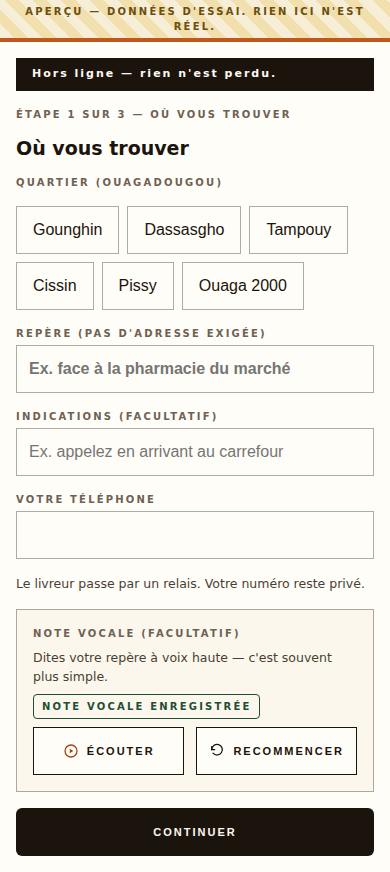
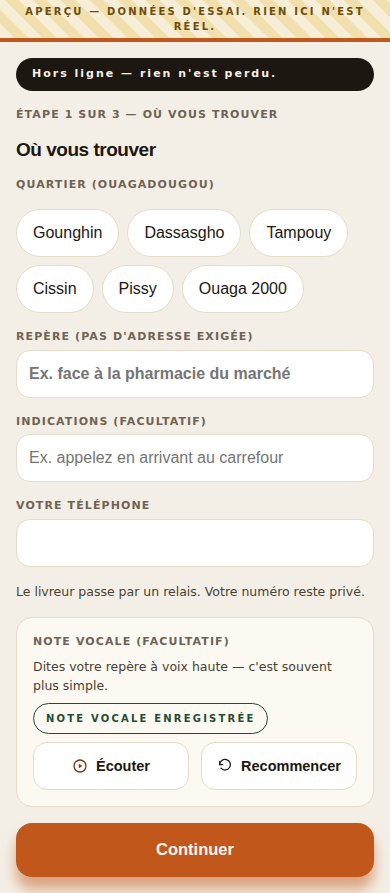
feat(buyer-pwa): extend the FP token-bridge to the mid-journey screens (re-skin part 2)
localisation, livraison, suivi, confirmation, and protections join the vitrine
language: the journey container now carries the .fp-screen scope unconditionally
(one language, product to protections), and fp-skin.ts gains the mid-journey
treatments — K field bytes with theme-accent focus, vt-chip pills, quote rows as
vt-tile cards with the K selection recipe, the timeline re-tinted through the
bridge, the drop-code frame on the part-1 rounded-ticks precedent, and the
protections sheet on the K vSheet bytes. The problem path's danger border is
restated inside the skin (SP-I10) on the K error byte now carried by the bridge.

CSS-only over unchanged markup; every FCFA byte on the way asserted unchanged
(1 000 / 1 500 / 11 500 / 12 500 / 0); zero U+202F in the sheet; theme drive
re-proven live on a mid-journey screen (var-flip repaints the MAINTENANT chip).

Claude-Session: https://claude.ai/code/session_01C5irtpxYf438XUjktu3Epm

diff --git a/apps/buyer-pwa/src/vitrine/fp-skin.ts b/apps/buyer-pwa/src/vitrine/fp-skin.ts
@@ -1,7 +1,8 @@
 /**
- * RE-SKIN (FP) — the vitrine's design language over the journey's money
- * screens (produit · paiement · the order states · the C1 skeleton surface),
- * WITHOUT touching their layout, markup, or behaviour.
+ * RE-SKIN (FP) — the vitrine's design language over the buyer journey
+ * (produit · localisation · livraison · paiement · confirmation · suivi ·
+ * protections, plus the order states and the C1 skeleton surface), WITHOUT
+ * touching layout, markup, or behaviour.
  *
  * Every byte below is lifted from a treatment the vitrine ALREADY ships —
  * cited rule-by-rule against its source: `vitrine/styles.ts` (.vt-*),
@@ -40,6 +41,7 @@ export const FP_SKIN_STYLES = `
     --c-primarySoft: color-mix(in srgb, var(--vt-on) 75%, transparent); /* .vt-cover-caps: θ.on à 75 % */
     --c-onPrimary: var(--vt-on);
     --c-onInk: #F6F0E4;            /* .vt-band color */
+    --c-danger: #C4574B;           /* K fieldInputError byte (the vitrine error red) */
   }
 
   /* Display type — .vt-namerow / .vt-state h3 bytes (Bricolage 800, -0.48px). */
@@ -162,6 +164,98 @@ export const FP_SKIN_STYLES = `
   /* Offline stays the ink band — .vt-band radius joins it (same ink, same text
      ink #F6F0E4 via the bridge). */
   .fp-screen .offline-banner { border-radius: 18px; }
+
+  /* ------------------------------------------------------------------------
+     MID-JOURNEY (part 2) — localisation · livraison · suivi · confirmation ·
+     protections join the same language. Colours largely arrive via the bridge
+     above; the rules below add only the treatments the bridge cannot express,
+     each cited to its vitrine/K source byte. */
+
+  /* Caps labels (field-label · step-line) — the K fieldLabel byte, identical
+     to .vt-group b (11 · 700 · ls 1.1 · muted via bridge). */
+  .fp-screen .field-label, .fp-screen .step-line {
+    font-size: 11px; font-weight: 700; letter-spacing: 1.1px;
+  }
+
+  /* Inputs — K fieldInput bytes (r 14 · 1.5 #E5DCC9 · white); focus rides the
+     habillage (K fieldInputFocus is θ.accent — θ-parametric here). */
+  .fp-screen .field-input {
+    border-radius: 14px; border: 1.5px solid #E5DCC9; background: #FFFFFF;
+  }
+  .fp-screen .field-input:focus { outline: none; border-color: var(--vt-accent); }
+
+  /* Zone chips — rest is the .vt-chip-line pill (white · 1 #E5DCC9); selected
+     is the K themeCardSelected recipe (2px θ.accent border) over the
+     .vt-chip-full ink (θ.soft on θ.deep). Selection stays structural. */
+  .fp-screen .chip {
+    border-radius: 99px; border: 1px solid #E5DCC9; background: #FFFFFF;
+  }
+  .fp-screen .chip-on {
+    border: 2px solid var(--vt-accent); background: var(--vt-soft); color: var(--vt-deep);
+    transition: background .3s, color .3s, border-color .3s;
+  }
+
+  /* Séra's quote rows — the .vt-tile card (white · #EDE4D3 · soft lift), r 14
+     (the K fieldInput/row radius); overflow clips the structural accent edge
+     inside the rounding. Selected = the K themeCardSelected recipe: 2px
+     θ.accent border + shadow 0 12 15 rgba(θ.accent, .35); the Grand Teint
+     accent edge + corner mark re-tint through the bridge and stay. */
+  .fp-screen .quote-row {
+    border-radius: 14px; border: 1px solid #EDE4D3; background: #FFFFFF;
+    box-shadow: 0 1px 2px rgba(28, 22, 15, 0.04);
+    overflow: hidden;
+  }
+  .fp-screen .quote-row-on {
+    border: 2px solid var(--vt-accent);
+    box-shadow: 0 12px 15px rgba(var(--vt-sh), .35);
+    transition: border-color .3s;
+  }
+
+  /* Tracking — timeline colours re-tint via the bridge (done = ink, now =
+     θ.accent ring, later = hairline); the MAINTENANT chip takes the vitrine
+     pill (r 99, .vt-chip). */
+  .fp-screen .now-chip { border-radius: 99px; transition: background .3s; }
+  .fp-screen .status-chip { border-radius: 99px; padding: 7px 12px; }
+
+  /* The door block — the .vt-tile card bytes (white, r 18, hairline, lift). */
+  .fp-screen .door-block {
+    border-radius: 18px; border: 1px solid #EDE4D3; background: #FFFFFF;
+    box-shadow: 0 1px 2px rgba(28, 22, 15, 0.04);
+  }
+
+  /* The drop-code frame — NO vitrine treatment exists (gap reported): it keeps
+     the part-1 photo-frame precedent — rounded (r 20) with the documentary
+     ticks kept, ticks re-tinted to θ.accent through the bridge. */
+  .fp-screen .code-box { border-radius: 20px; }
+
+  /* The landmark voice block — the .ent3-encart radius (r 16); its surface and
+     hairline arrive via the bridge (#FCF9F2 · #E5DCC9). */
+  .fp-screen .voice-note { border-radius: 16px; }
+
+  /* Secondary actions — the .vt-ghostbtn bytes (the same language the equal
+     actions already ride). The problem path KEEPS its danger border/ink
+     (SP-I10 — this rule outranks .problem-path, so restate it, on the K error
+     byte the bridge carries). */
+  .fp-screen .secondary-action {
+    border-radius: 14px; border: 1px solid #E5DCC9; background: #FFFFFF; color: #1C1710;
+    font-family: 'Bricolage Grotesque', sans-serif;
+    font-size: 14.5px; font-weight: 700;
+    letter-spacing: normal; text-transform: none;
+  }
+  .fp-screen .secondary-action:active { background: #FBF6EB; } /* .ent4:active */
+  .fp-screen .secondary-action.problem-path {
+    border-color: var(--c-danger); color: var(--c-danger);
+  }
+
+  /* « Vos protections » — the K vSheet bytes verbatim: card #FBF7EF, top
+     radius 24, the 44×5 r99 #DDD2BC handle. The rows' quote-rule left border
+     re-tints to vitrine ink through the bridge. */
+  .fp-screen .protections-sheet {
+    background: #FBF7EF; border-top: 0; border-radius: 24px 24px 0 0;
+  }
+  .fp-screen .sheet-handle {
+    width: 44px; height: 5px; border-radius: 99px; background: #DDD2BC;
+  }
 
   /* C1 skeleton (§2.1) — the .vt-shim treatment verbatim (the woven shimmer),
      same exact boxes (CLS 0 by construction, unchanged markup). */

diff --git a/apps/buyer-pwa/e2e/fp-skin.spec.ts b/apps/buyer-pwa/e2e/fp-skin.spec.ts
@@ -80,17 +80,76 @@ test('the two-option checkout re-skinned — vitrine cards, amounts to the franc
   expect(weights[0]).toBe(weights[1]);
 });
 
-test('paiement inside the journey rides the skin; localisation (unskinned) keeps Grand Teint', async ({ page }) => {
-  // the journey checkout is a skinned screen under her theme…
+test('paiement inside the journey rides the skin under her theme', async ({ page }) => {
   await page.goto('/?demo-journey=paiement');
   await expect(page.locator('main.fp-screen')).toBeVisible();
   await expect(page.locator('[data-option="full-prepay"]')).toHaveCSS('border-radius', '18px');
+});
 
-  // …and the scope holds: a screen this order does NOT cover stays Grand Teint
-  // (no .fp-screen), so the skin can never leak beyond its slice.
+/* PART 2 — the mid-journey screens join the language (gap 5 closed): every
+ * screen of the walk is `.fp-screen`-scoped under HER habillage, and every
+ * FCFA byte on the way is asserted unchanged. */
+
+test('localisation re-skinned — K field language, no FCFA on this screen', async ({ page }) => {
   await page.goto('/?demo-journey=localisation');
-  await expect(page.locator('[data-screen="localisation"]')).toBeVisible();
-  await expect(page.locator('main.fp-screen')).toHaveCount(0);
+  await expect(page.locator('main.fp-screen [data-screen="localisation"]')).toBeVisible();
+  // K fieldInput bytes on the repère input; focus rides the habillage.
+  const repere = page.locator('.field-repere');
+  await expect(repere).toHaveCSS('border-radius', '14px');
+  await repere.focus();
+  await expect(repere).toHaveCSS('border-color', 'rgb(194, 87, 27)');
+  // landmark-first law untouched: still no street-address field, no FCFA here.
+  await expect(page.locator('input[name="adresse"]')).toHaveCount(0);
+});
+
+test('livraison re-skinned — Séra\'s fees byte-exact, the selected row carries the K selection recipe', async ({ page }) => {
+  await page.goto('/?demo-journey=livraison');
+  await expect(page.locator('main.fp-screen [data-screen="livraison"]')).toBeVisible();
+  // the quote is display-only and byte-exact: both fees + the fee in the CTA.
+  const rows = page.locator('.quote-row .fcfa-figure-inline');
+  await expect(rows.nth(0)).toHaveText('1 000 FCFA');
+  await expect(rows.nth(1)).toHaveText('1 500 FCFA');
+  await expect(page.locator('.primary-action')).toContainText('1 000 FCFA');
+  // selected row = K themeCardSelected recipe (2px θ.accent border).
+  const selected = page.locator('.quote-row-on');
+  await expect(selected).toHaveCSS('border-color', 'rgb(194, 87, 27)');
+  await expect(selected).toHaveCSS('border-top-width', '2px');
+});
+
+test('suivi re-skinned — due-at-door byte-exact, the theme drives the timeline chip live', async ({ page }) => {
+  await page.goto('/?demo-journey=suivi&etat=porte-b');
+  const main = page.locator('main.fp-screen');
+  await expect(main.locator('[data-screen="suivi"]')).toBeVisible();
+  // Option B: the product leg due at the door, unchanged to the franc.
+  await expect(page.locator('.door-block .fcfa-figure-inline')).toHaveText('11 500 FCFA');
+  await expect(page.locator('.door-block')).toHaveCSS('border-radius', '18px');
+  // the MAINTENANT chip rides θ.accent — and repaints on a theme flip (the
+  // drive proven on a mid-journey screen, same law as the product band).
+  const chip = page.locator('.now-chip');
+  await expect(chip).toHaveCSS('background-color', 'rgb(194, 87, 27)');
+  await main.evaluate((el, accent) => el.style.setProperty('--vt-accent', accent), FORET_ACCENT);
+  await expect(chip).toHaveCSS('background-color', FORET_ACCENT);
+  // SP-I10 survives the skin: « Un souci ? » keeps its danger border (the K
+  // error byte), never absorbed into the ghost-button language.
+  await expect(page.locator('.problem-path')).toHaveCSS('border-color', 'rgb(196, 87, 75)');
+});
+
+test('confirmation re-skinned — both money lines byte-exact, honest pending pill', async ({ page }) => {
+  await page.goto('/?demo-journey=confirmation');
+  await expect(page.locator('main.fp-screen [data-screen="confirmation"]')).toBeVisible();
+  const lines = page.locator('.fcfa-line .fcfa-figure-inline');
+  await expect(lines.nth(0)).toHaveText('12 500 FCFA');
+  await expect(lines.nth(1)).toHaveText('0 FCFA');
+  // the honest pending state rides the vitrine pill (never a green lie).
+  await expect(page.locator('.status-chip.status-pending')).toHaveCSS('border-radius', '99px');
+});
+
+test('protections re-skinned — the K sheet bytes carry the bill of rights', async ({ page }) => {
+  await page.goto('/?demo-journey=protections');
+  const sheet = page.locator('main.fp-screen [data-screen="protections"]');
+  await expect(sheet).toBeVisible();
+  await expect(sheet).toHaveCSS('background-color', 'rgb(251, 247, 239)');
+  await expect(sheet).toHaveCSS('border-top-left-radius', '24px');
 });
 
 test('the C1 skeleton surface re-skinned — the vitrine shim, the exact boxes', async ({ page }) => {

diff --git a/apps/buyer-pwa/src/journey.ts b/apps/buyer-pwa/src/journey.ts
@@ -215,11 +215,13 @@ export function createJourney(container: HTMLElement, init: JourneyInit): void {
   }
   if (init.screen === 'protections') state.stack.push('protections');
 
-  // RE-SKIN (FP) — the reseller's habillage (§1.2) drives the skinned screens:
+  // RE-SKIN (FP) — the reseller's habillage (§1.2) drives the journey chrome:
   // applyTheme sets the --vt-* properties on the journey container ONCE (they
   // survive innerHTML re-renders); the fp-skin rules consume them, so HER theme
-  // re-tints the product/checkout chrome exactly as it re-tints her vitrine.
+  // re-tints every screen exactly as it re-tints her vitrine. Part 2: the whole
+  // journey rides the skin — one language from product to protections.
   applyTheme(container, state.vitrine?.themeKey ?? DEFAULT_THEME);
+  container.classList.add('fp-screen');
 
   let adapter: RecorderAdapter | null = null;
   let playbackUrl: string | null = null;
@@ -305,9 +307,6 @@ export function createJourney(container: HTMLElement, init: JourneyInit): void {
   }
 
   function render(): void {
-    // RE-SKIN (FP) scope: produit + paiement carry the vitrine language today;
-    // the other screens keep Grand Teint until their own re-skin slices.
-    container.classList.toggle('fp-screen', current() === 'produit' || current() === 'paiement');
     const offlineBanner = state.online
       ? ''
       : `<p class="offline-banner" data-role="offline">${t('hors_ligne.bandeau')}</p>`;

diff --git a/apps/buyer-pwa/test/fp-skin.test.ts b/apps/buyer-pwa/test/fp-skin.test.ts
@@ -59,10 +59,13 @@ describe('the journey resolves and applies HER habillage', () => {
     expect(entry!.accent).toBe(VITRINE_THEMES[entry!.themeKey].accent);
   });
 
-  it('the wiring stays bound: applyTheme on the container, the scoped class toggle, the sheet injection', () => {
+  it('the wiring stays bound: applyTheme on the container, the whole-journey scope, the sheet injection', () => {
     const journey = read('journey.ts');
     expect(journey).toContain('applyTheme(container,');
-    expect(journey).toContain("classList.toggle('fp-screen'");
+    // Part 2: the WHOLE journey rides the skin — one language, product to
+    // protections (the per-screen toggle is retired).
+    expect(journey).toContain("container.classList.add('fp-screen')");
+    expect(journey).not.toContain("classList.toggle('fp-screen'");
     const main = read('main.ts');
     expect(main).toContain('FP_SKIN_STYLES');
     expect(main).toContain("setAttribute('data-fp-skin'");

diff --git a/JOURNAL.md b/JOURNAL.md
@@ -9,6 +9,14 @@ Format per entry:
 
 ---
 
+## 2026-07-21 · RE-SKIN (FP) part 2 — the mid-journey screens join the language (gap 5 closed) · in-review (built + gates green on-branch; NO merge)
+- **Order:** extend the 6d2d2ae token-bridge to localisation · livraison · suivi · confirmation · protections. CSS-only over unchanged markup; money render-only; zero U+202F in the sheet.
+- **Grounded first (vocab + FCFA per screen):** localisation `.location-form` (step-line · field-label/input/repere · chips/chip-on · quiet-line · voice-note + status-chips · secondary-action · action-equal · primary-action — NO FCFA) · livraison `.delivery-quote` (quote-table/row/row-on/label · fcfa-figure-inline **1 000 / 1 500** · fee restated in the CTA label) · suivi `.tracking` (timeline done/now/later · now-chip · door-block · code-box(-locked)/code-frame/figure/ticks · fcfa-line **11 500 dû à la porte** · action-equal pair · problem-path · link-quiet) · confirmation in journey.ts (fcfa-line ×2 — **12 500 / 0** direct, fee/11 500 mode B · status-pending · ent4) · protections `.protections-sheet` (sheet-handle · protections-list/row — NO FCFA).
+- **Built:** fp-skin.ts extended (all `.fp-screen`-scoped; new anchors cited): K fieldLabel byte on caps labels; K fieldInput bytes on inputs with θ.accent focus; zone chips = vt-chip-line pill rest / **K themeCardSelected** (2px θ.accent) + chip-full ink selected; quote rows = vt-tile card r 14 + overflow-clipped structural accent edge, selected = K themeCardSelected recipe (2px θ.accent + shadow 0 12 15 rgba(θ.sh,.35)); timeline re-tints via the bridge, MAINTENANT chip pill; door-block = vt-tile card; voice-note r 16 (ent3-encart); code-box r 20 (photo-frame precedent — gap below); status-chip pill; secondary-action = vt-ghostbtn **with `.problem-path` danger restated** (my higher-specificity ghost rule would otherwise erase SP-I10's danger border — caught and pinned in e2e); protections sheet = **K vSheet bytes** (#FBF7EF · top-r 24 · 44×5 #DDD2BC handle). Bridge gains `--c-danger: #C4574B` (K fieldInputError byte). Wiring: the journey container now carries `fp-screen` unconditionally (one language, product → protections); per-screen toggle retired; unit guard updated.
+- **Evidence (this session):** U+202F scan on fp-skin.ts = 0 · tsc exit 0 · vitest 20 files / 133 tests green · Playwright **63/63** green (5 net-new: localisation K-field + focus-accent + no-address negative; livraison fees byte-exact 1 000/1 500 + CTA + K selection border; suivi 11 500 byte-exact + **live var-flip repaints the MAINTENANT chip** + problem-path keeps rgb(196,87,75); confirmation 12 500/0 byte-exact + pending pill; protections K sheet bytes) · run-gates.sh ALL GATES GREEN exit 0.
+- **DESIGN GAPS (part 2):** ⑥ the drop-code frame has no vitrine treatment — expressed by the part-1 precedent (rounded r 20, documentary ticks kept, ticks θ.accent via bridge); founder may rule a dedicated custody-proof treatment. ⑦ the vitrine defines no success/warning palette — status-chip ok/pending keep Grand Teint semantic colours inside the skin (danger now anchored to the K error byte). Part-1 gaps ①–④ unchanged; gap ⑤ (mid-journey mix) is CLOSED by this slice.
+- Pending / next: dispatch ci.yml on-branch, prove GREEN at head. **NO merge** per order.
+
 ## 2026-07-21 · RE-SKIN (FP) — vitrine language on the buyer money screens · in-review (built + gates green on-branch; NO merge)
 - **Order:** bring the buyer-PWA product + checkout screens onto the vitrine's design language, keeping their working layout — token + treatment swap, not a redesign; the product page adopts the RESELLER's theme; money render-only.
 - **Grounded first (read-before-write):** `vitrine/styles.ts` (the .vt-* byte table: paper #F4EFE6 · ink #1C1710 · body #4A3F33 · muted #6F6355 · hairlines #EDE4D3/#E5DCC9 · ink band #1C1710/#F6F0E4 · empty #FCF9F2 dashed #DDD2BC · shim #ECE4D4/#F6F1E7 · radii 10–22 + pill · Instrument Sans text / Bricolage display · prices Bricolage 800 tabular θ.deep) · `vitrine/themes.ts` (the closed §1.2 habillages via `applyTheme` → `--vt-accent/deep/soft/on/sh/accent10`; BUYER_GOLD #C89A3F) · `vitrine/entries.ts` (.ent* bytes) · reseller `k-styles.ts` `cta` (h 54 · r 16 · θ.accent · Bricolage 700 16.5 θ.on · shadow 0 12 13 `rgba(θ.sh,.5)` — the ONE in-repo consumer of θ.sh) · `FASO-PREMIUM-BUDGET.md` + fonts.css (six committed woff2, faso-fonts guard).